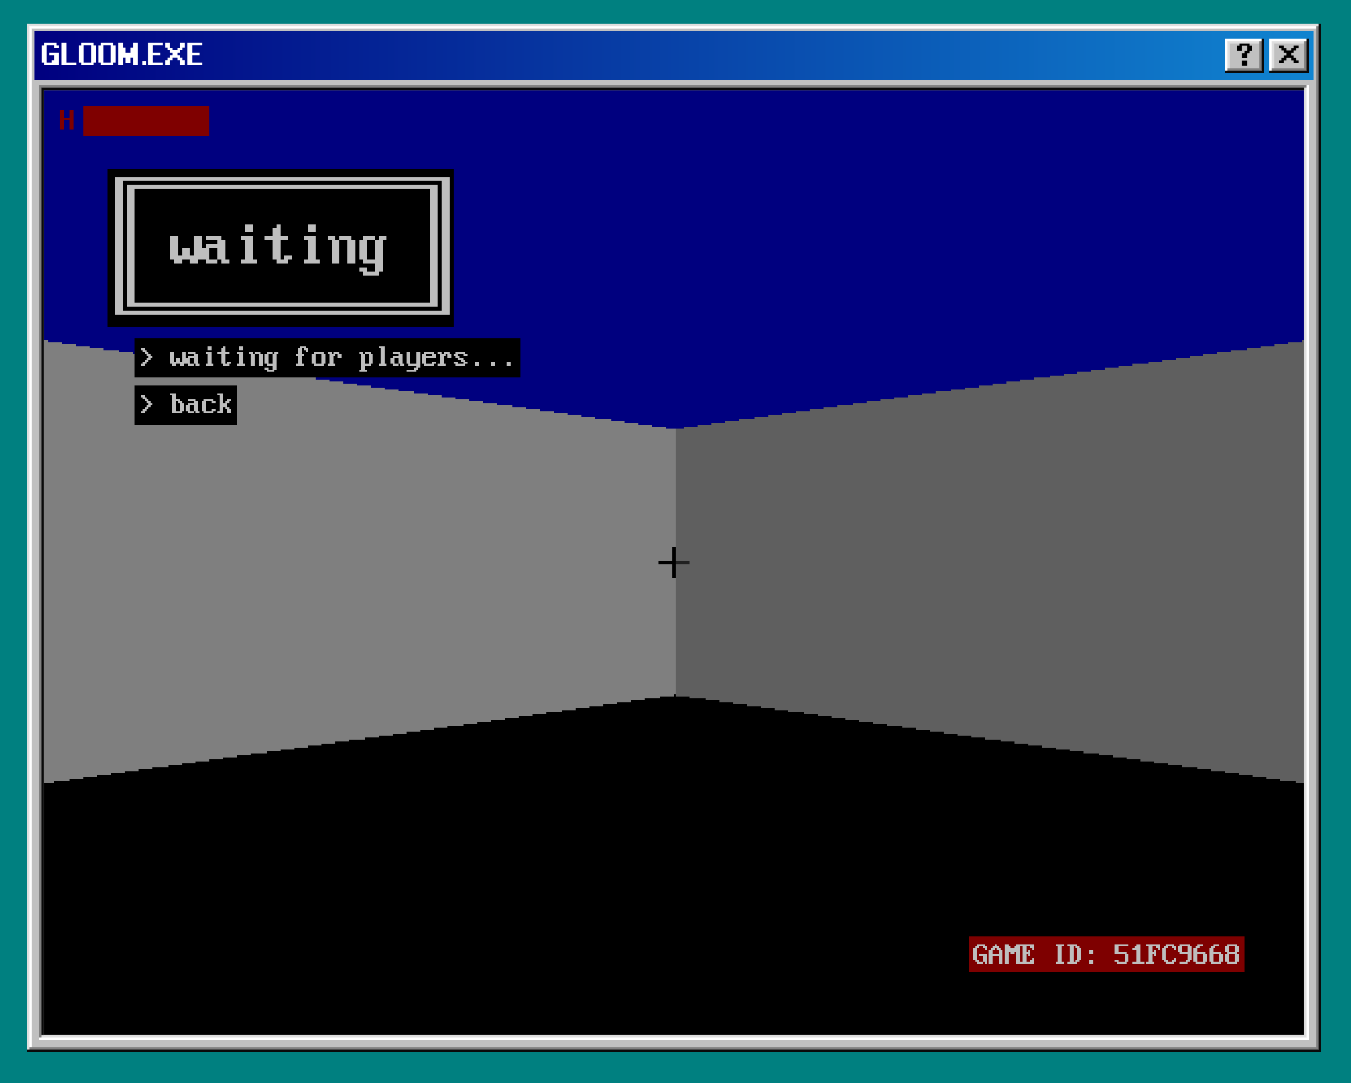
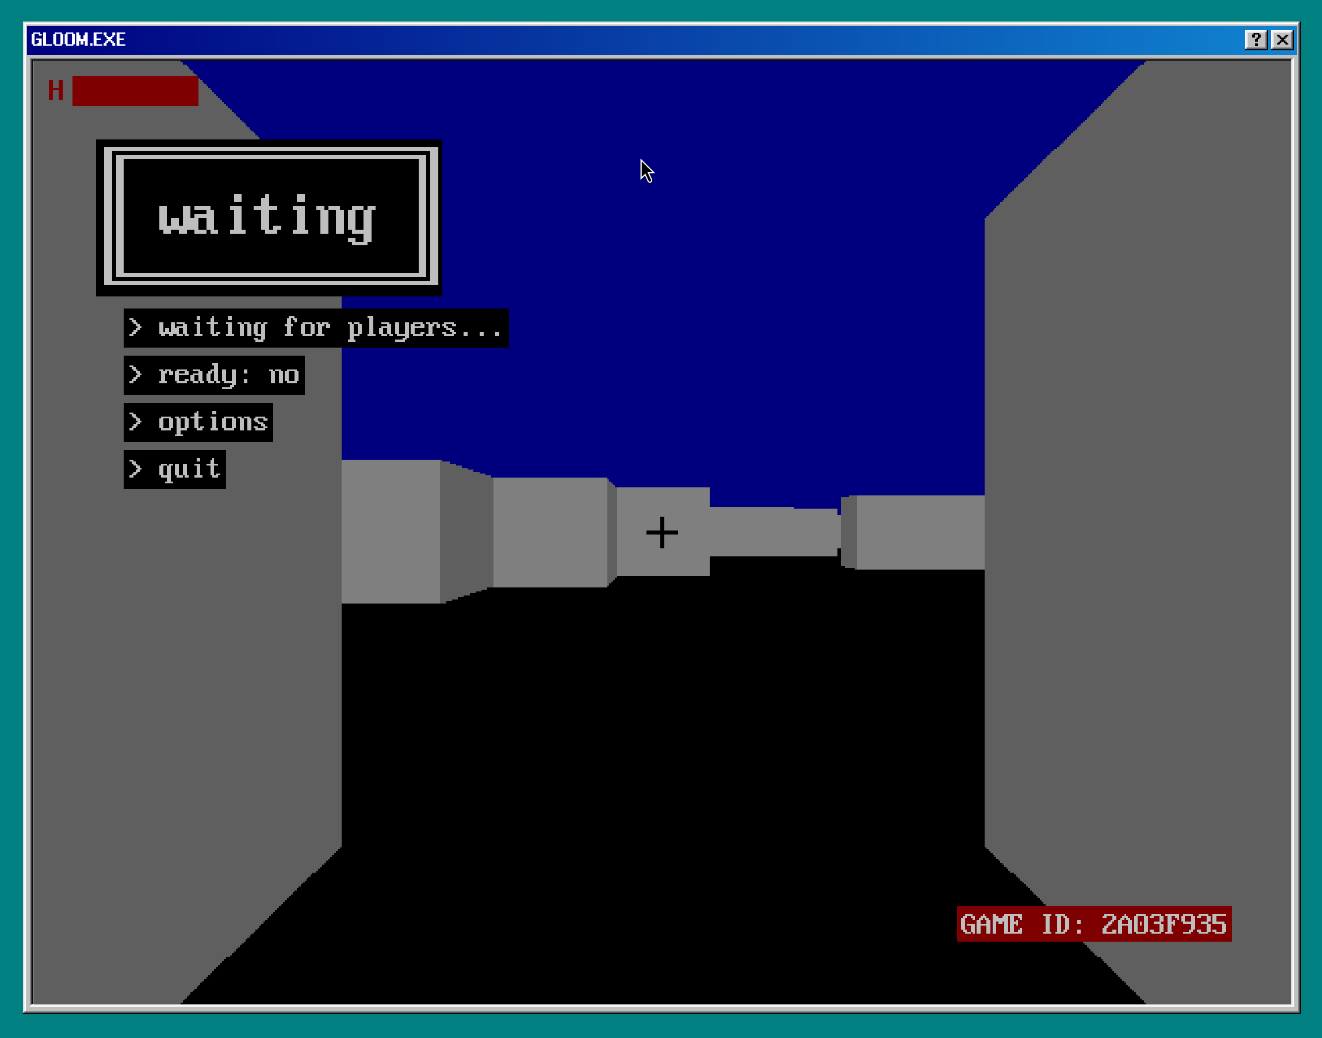
Update waiting screen in README.md

diff --git a/src/client/wasm/states/waiting.c b/src/client/wasm/states/waiting.c
@@ -30,11 +30,16 @@ static struct component comps[] = {
   [2] = { .type = UICOMP_BUTTON, .text = "> quit", .on_click = on_quit_clicked }
 };
 
+static b8 ready;
+
+static void set_ready(b8 yes) {
+  ready = yes;
+  comps[0].text = ready ? "> ready: yes" : "> ready: no";
+}
+
 static void on_ready_click(void) {
-  // hacky, but it works
-  b8 switch_to_ready = comps[0].text[2] == 'n';
-  comps[0].text = switch_to_ready ? "> ready" : "> not ready";
-  signal_ready(switch_to_ready);
+  set_ready(!ready);
+  signal_ready(ready);
 }
 #endif
 
@@ -91,7 +96,7 @@ static void on_enter(void) {
   set_alpha(0x7F);
   ui_set_colors(FOREGROUND_COLOR, BACKGROUND_COLOR);
   component_on_enter(comps, ARRLEN(comps));
-  comps[0].text = "> not ready"; // update ready button text
+  set_ready(false);
   gloom_init();
   timer_start = time();
 }

diff --git a/README.md b/README.md
@@ -43,14 +43,13 @@ Clicking on `Create`, will tell the game server to instantiate a game. Once the 
 To join a game, you have to enter the correct ID in the text-box (or leave it empty if you want to join the game you've just created),
 and then click on the `Join` button. 
 
-![menu](.github/images/menu.png)
-
-In the menu you can adjust your render distance and FOV to your liking. Do note that you can also do this while you're in game.
-When you are ready to go, click on `> ready` and you will join the game world.
-
 ![waiting](.github/images/waiting.png)
 
-Once there are at least two players in the game, a countdown will start, at the end of which the players will be allowed to move.
+In the waiting menu you can adjust your settings while you wait for other players to join.
+Once there are at least two players in the game, and every player has clicked the `> ready` button,
+a countdown will start, at the end of which the players will be allowed to move.
+Note that clicking the ready button again, will stop the countdown. You will have to press it again
+to restart it.
 
 ![in-game](.github/images/in-game.png)
 
@@ -128,8 +127,8 @@ The server accepts the following environment variables:
 - `DATABASE`: Path to the database file. This a SQLite3 database path, therefore things like `:memory:` will also work. It is set to `:memory:` by default, but the provided `docker-compose` file will create a volume and store the database there.
 - `COOKIE_SECRET`: The secret key used to sign the cookies. If it's not set, the server will generate a random one each time it is started.
 - `HTTP_PORT`: Controls the port on which the HTTP server should listen for incoming requests. By default, it's set to 8080.
-- 'WSS_PORT': Controls the port on which the WebSocket server should listen for incoming connections. By default, it's set to 8492.
+- `WSS_PORT`: Controls the port on which the WebSocket server should listen for incoming connections. By default, it's set to 8492.
 
 > [!IMPORTANT]
-> If you're using `docker-compose`, you can change `COOKIE_SECRET` and `LOG_VERBOSE`, by creating a `.env` file in the project root,
+> If you're using `docker-compose`, you can change these options by creating a `.env` file in the project root,
 > and writing your values there, in the form `PARAM_NAME=param_value`. For example `COOKIE_SECRET=mySuperSecret1234`.
